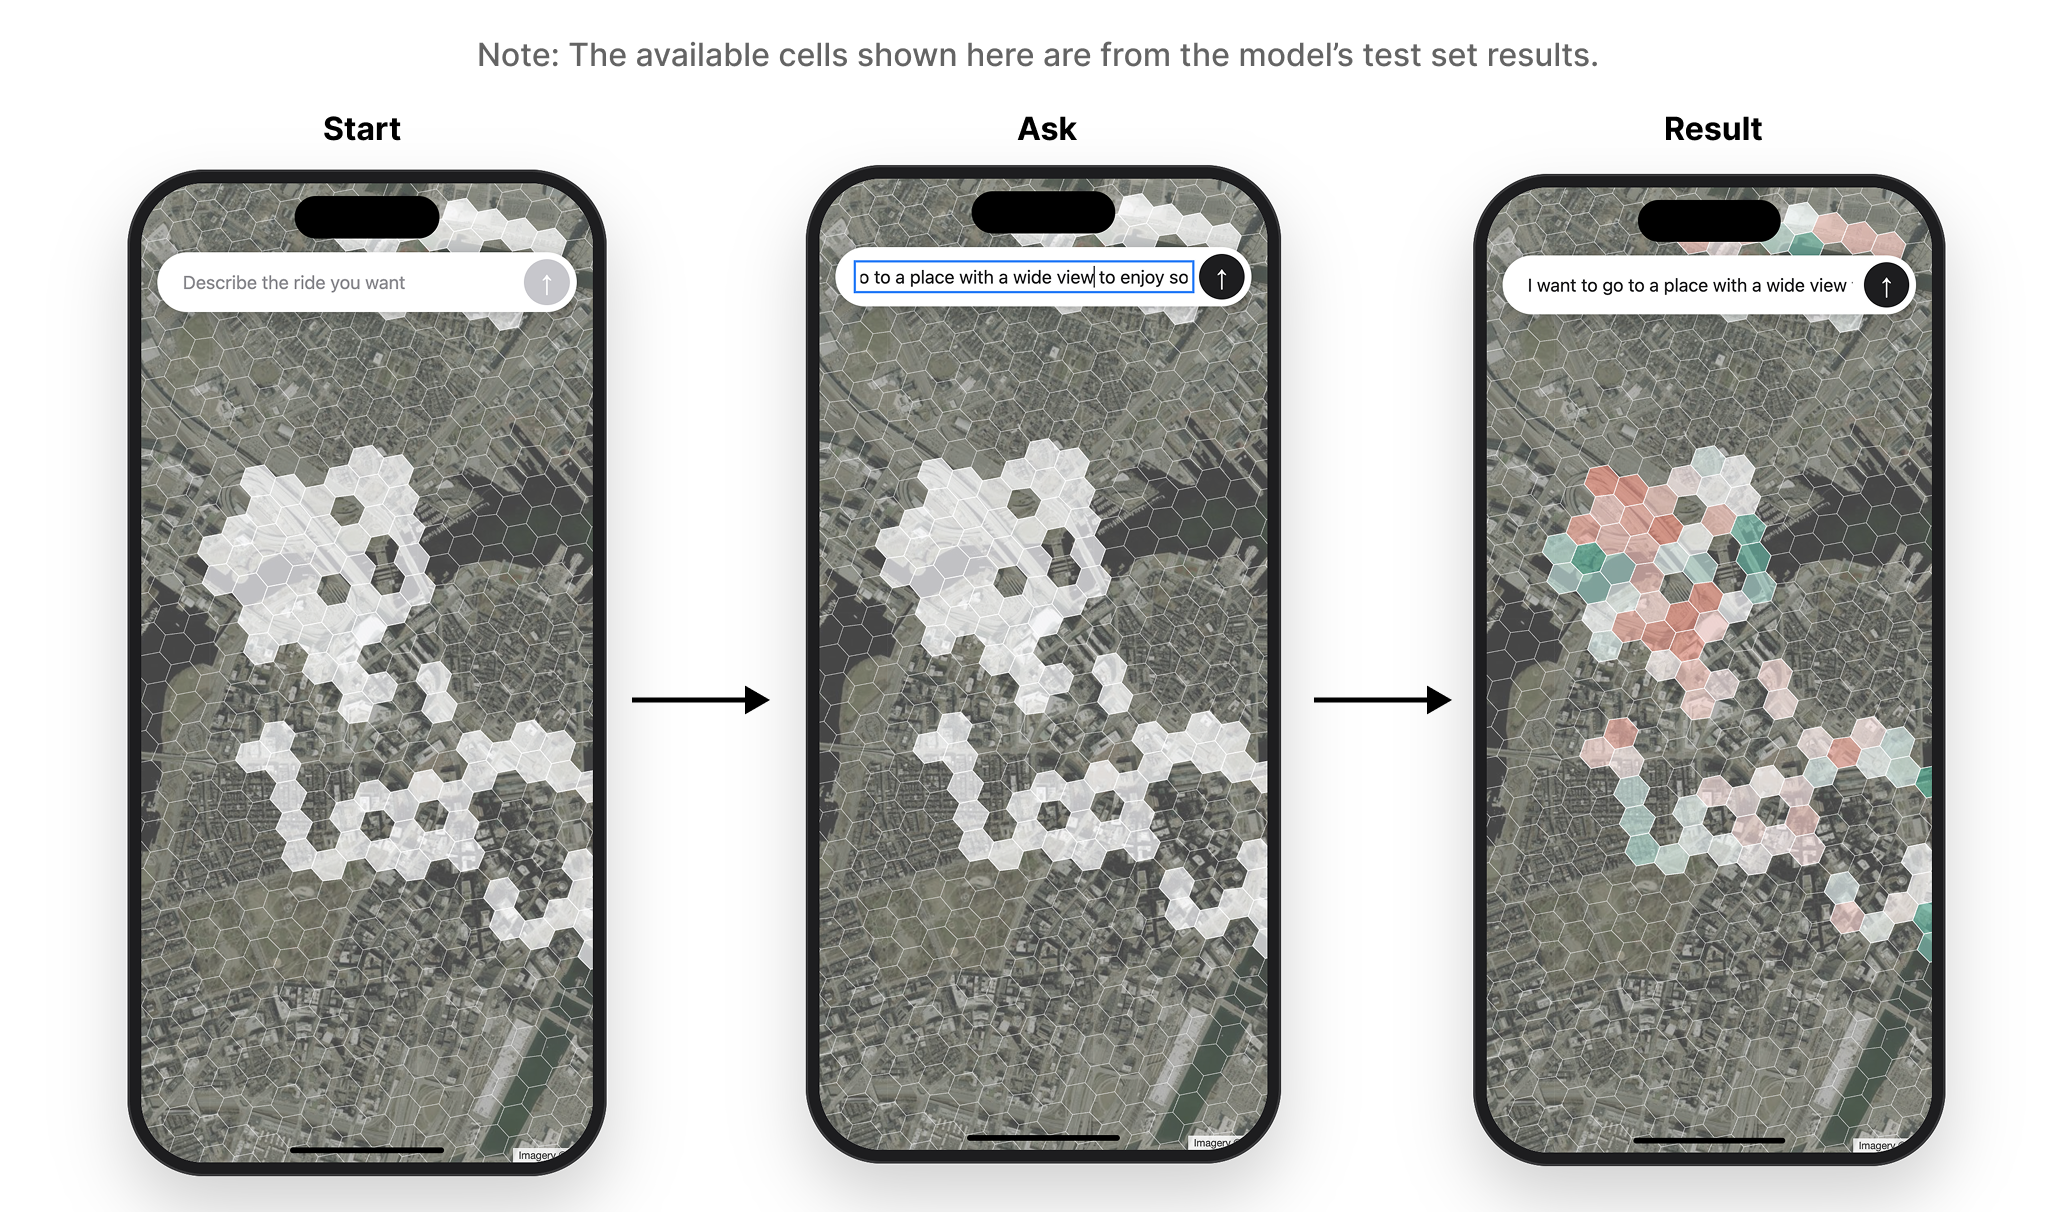
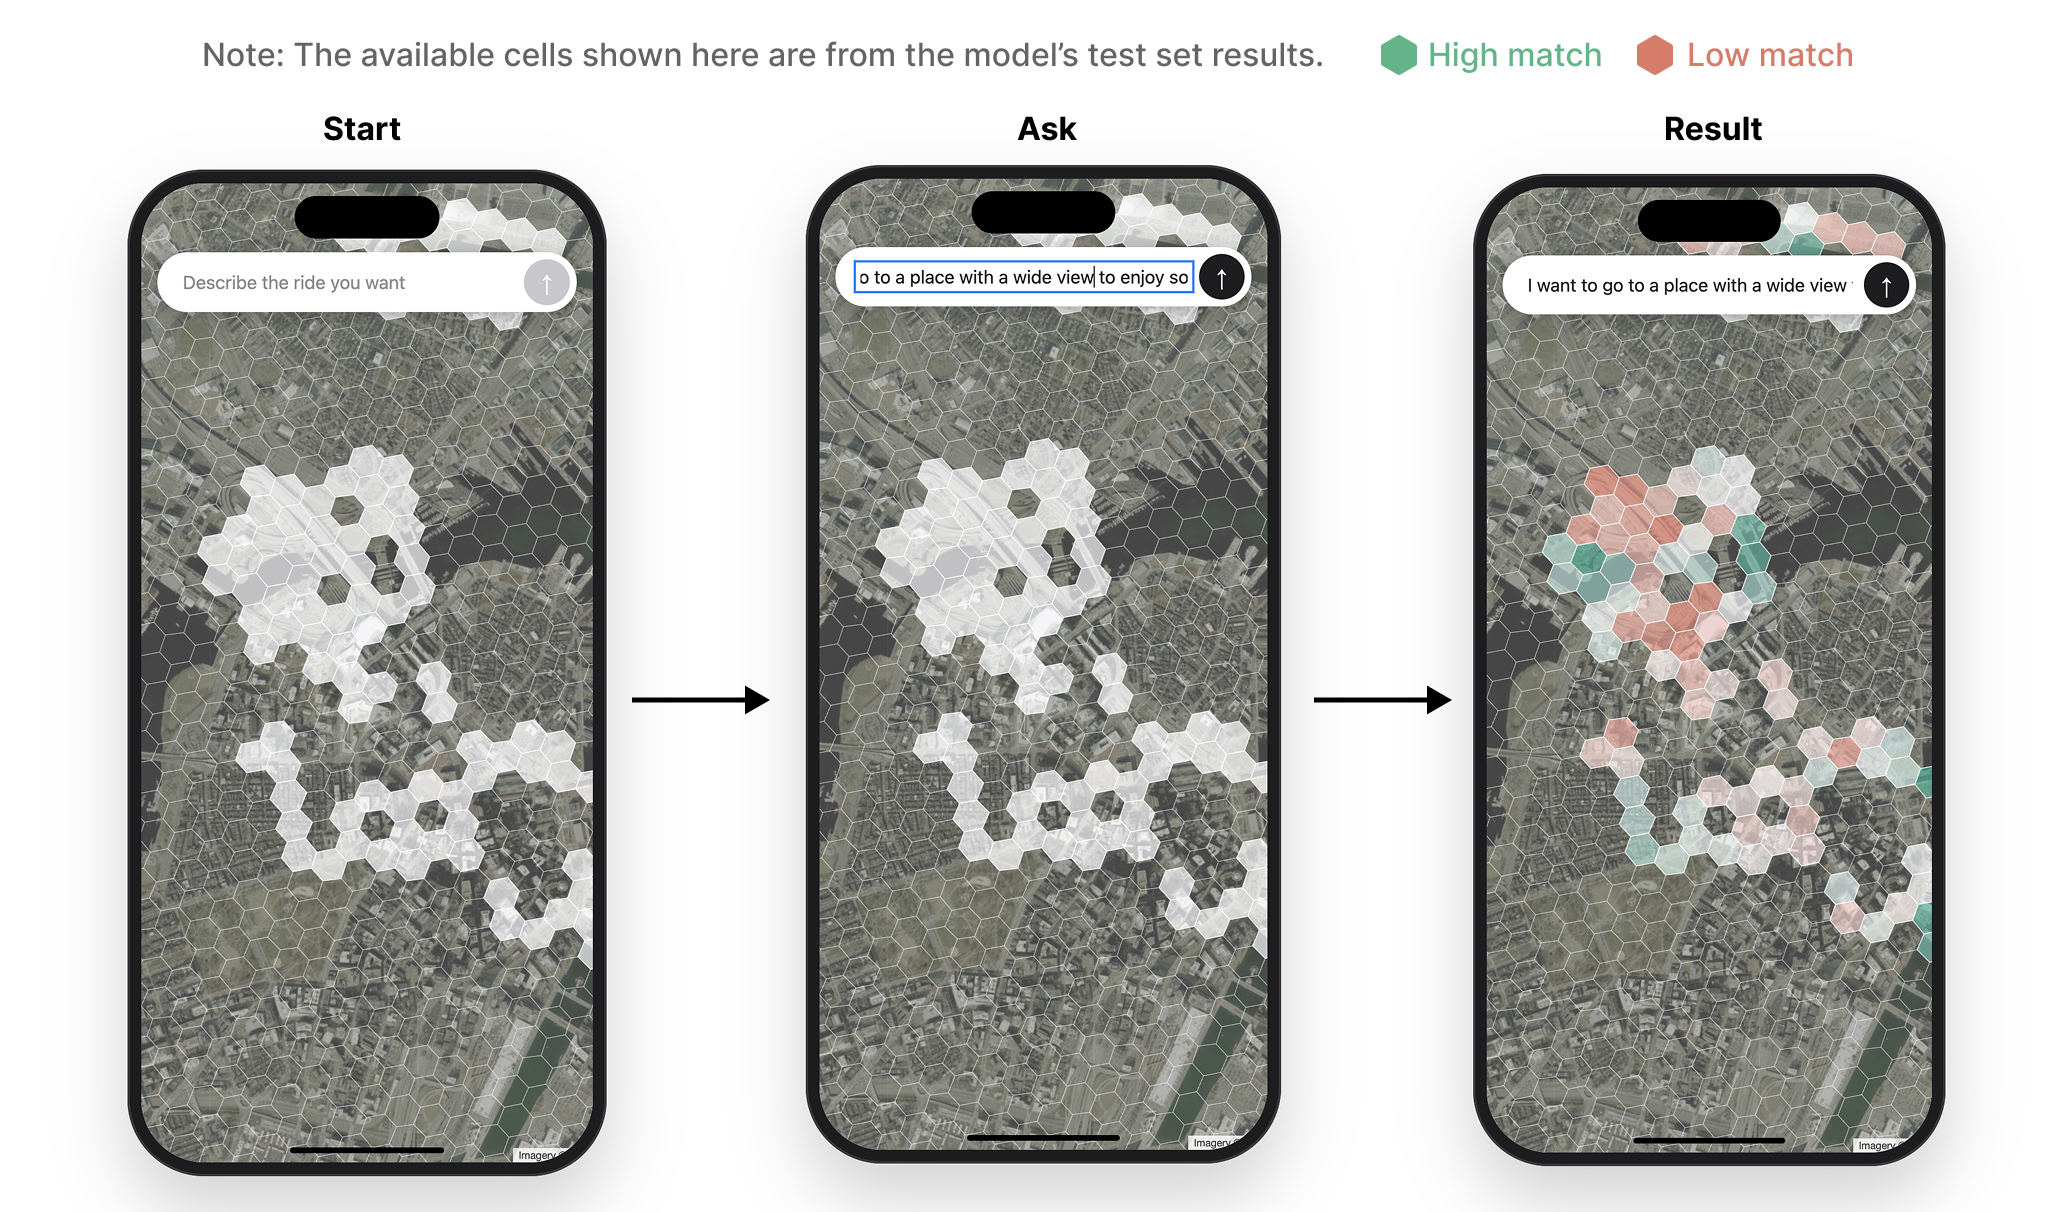
Simplify result explanations and contents, update frontend illustration

Changed region(s): [[0.0933, 0.0305, 0.9023, 0.0611]]

diff --git a/README.md b/README.md
@@ -24,14 +24,7 @@ is the next step. **Milestone 2 track: Vision.**
   - [Run collection through prediction](#run-collection-through-prediction)
   - [Example pipeline outputs](#example-pipeline-outputs)
   - [Model training and results: partial fine-tuning](#model-training-and-results-partial-fine-tuning)
-    - [1. Data and evaluation protocol](#1-data-and-evaluation-protocol)
-    - [2. Model configurations](#2-model-configurations)
-    - [3. Held-out test comparison (54 cells)](#3-held-out-test-comparison-54-cells)
-    - [4. Detailed comparison by target dimension](#4-detailed-comparison-by-target-dimension)
-    - [5. Interpretation and limitations](#5-interpretation-and-limitations)
-    - [6. Reproducibility](#6-reproducibility)
   - [Data and model versions](#data-and-model-versions)
-- [Milestone 2 evidence](#milestone-2-evidence)
 
 ## Repository at a glance
 
@@ -280,17 +273,23 @@ and ESA WorldCover 2021 (CC BY 4.0).
 
 ### Model training and results: partial fine-tuning
 
-**The results below use the ten-target Notebook 08 experiment.** The runnable app and
-five-container workflow still use the existing frozen CLIP + Ridge serving path; these
-fine-tuned checkpoints have not been integrated into that path.
+**Notebook 08 compares models predicting ten scenery scores.** These are research
+results; the app still uses its existing frozen CLIP + Ridge model.
 
-This experiment asks whether partially updating pretrained visual encoders improves prediction of cycling-environment attributes from overhead imagery. It compares frozen and partially fine-tuned models within the **same ten-target dataset (`v1`) and fixed spatial train/validation/test split**. All ten targets are generated from street-view photographs by Gemini; they are **pseudo-labels, not independently validated cyclist ratings**.
+**Question: does fine-tuning help?** We compare keeping pretrained image encoders
+unchanged (frozen) with updating their final layers (partial fine-tuning). All models
+use the same data split and Gemini-generated labels, which have not been human-validated.
 
 #### 1. Data and evaluation protocol
 
-The pipeline produced 1,127 geographic cells, of which 175 received labels; 160 remained after spatial filtering. The fixed dataset has **67 training, 39 validation, and 54 held-out test cells**. The targets are `tree_canopy`, `greenery`, `water_visibility`, `open_landscape`, `urban_density`, `historic_character`, `commercial_activity`, `bike_infrastructure`, `road_environment`, and `scenic_appeal` (each normalized to [0, 1]).
+After filtering, **160 cells** remain: **67 train, 39 validation and 54 test**.
+Ten scores cover trees, greenery, water, openness, urban density, historic character,
+commercial activity, cycling infrastructure, road environment and scenic appeal (0–1).
 
-Models are selected by **validation MAE**, with early stopping based on that metric. The held-out test split is used for final evaluation. We report the **mean across the ten dimensions** of MAE and RMSE (lower is better) and Spearman rank correlation (higher is better). Missing targets are masked in the loss and evaluation. With only 67 training cells, these comparisons are preliminary.
+Validation error selects the model checkpoint; test cells are reserved for evaluation.
+Metrics average the ten targets and ignore missing labels:
+**MAE** is average absolute error, **RMSE** emphasizes large errors (both lower is better),
+and **Spearman** measures agreement in area rankings (higher is better).
 
 #### 2. Model configurations
 
@@ -309,9 +308,11 @@ Models are selected by **validation MAE**, with early stopping based on that met
 | Batch size / maximum epochs | 8 / 25 | 8 / 25 |
 | Early stopping | Patience 6; select minimum validation MAE | Same |
 
-Training also uses CUDA mixed precision where available and gradient clipping (`max_norm=1.0`). The completed Google Drive notebook records `DRY_RUN=False`; its outputs show 25 ResNet50 epochs and 15 DINOv2 epochs (the latter stopped early). The saved checkpoints are reloaded for evaluation.
+ResNet50 ran for 25 epochs; DINOv2 stopped early after 15. Saved checkpoints were
+reloaded for evaluation. Training uses mixed precision when available and gradient clipping.
 
-**Important comparison caveat:** Notebook 07's *frozen* models use a **Ridge regression probe on cached encoder embeddings**, whereas Notebook 08's partially fine-tuned models use a **new neural regression head**. The performance differences cannot be attributed exclusively to unfreezing the encoder.
+**Comparison limit:** frozen models use Ridge; fine-tuned models use a new neural head.
+Because both the encoder and head change, differences are not due only to fine-tuning.
 
 #### 3. Held-out test comparison (54 cells)
 
@@ -328,7 +329,7 @@ Training also uses CUDA mixed precision where available and gradient clipping (`
 
 ![Overall model comparison: MAE, RMSE, and Spearman](docs/experiments/finetuning/Figures/model_comparison.png)
 
-*Figure 1. Overall model comparison. Connected points compare frozen and partially fine-tuned versions of ResNet50 and DINOv2. CLIP has the lowest RMSE among image-only models, while OSM + LightGBM has the highest Spearman overall.*
+*Figure 1. Connected points show before/after fine-tuning; leftward is better for error, rightward for ranking.*
 
 ##### Frozen vs partial fine-tuning: direct comparison
 
@@ -337,44 +338,51 @@ Training also uses CUDA mixed precision where available and gradient clipping (`
 | ResNet50 | 0.132 | 0.174 | **+0.042** | 0.170 | 0.209 | **+0.039** | 0.403 | 0.215 | **−0.188** |
 | DINOv2-S | 0.132 | 0.125 | **−0.007** | 0.164 | 0.161 | **−0.003** | 0.468 | 0.441 | **−0.027** |
 
-DINOv2-S partial FT slightly reduces absolute prediction error, but does not improve ranking agreement. ResNet50 partial FT is worse than its frozen Ridge baseline on all three metrics. These are **descriptive test-set differences**, not claims of statistical significance.
+DINOv2 reduces error but worsens ranking. ResNet50 worsens on all three metrics.
+These observed differences are not claims of statistical significance.
 
 ![Frozen vs partial fine-tuning on the held-out test set](docs/experiments/finetuning/Figures/heldout_test_set.png)
 
-*Figure 2. Focused comparison of ResNet50 and DINOv2-S before and after fine-tuning across all three metrics.*
+*Figure 2. Each encoder before and after fine-tuning.*
 
 #### 4. Detailed comparison by target dimension
 
-Aggregate results can hide differences across the ten target attributes. The following figures compare the same four image-only configurations at the **per-dimension** level. The underlying results were calculated by the notebook from the saved test predictions and Notebook 07's `per_dimension_metrics.csv`.
+The next two figures show which individual targets improve or worsen, rather than
+only reporting an overall average.
 
 ##### Change in MAE
 
 ![Per-dimension change in MAE after fine-tuning](docs/experiments/finetuning/Figures/Finetuning_effect.png)
 
-*Figure 3. Change in MAE (partial FT minus frozen) for each target. Negative values indicate lower prediction error after fine-tuning; positive values indicate deterioration.*
+*Figure 3. Error change after fine-tuning: negative = improved, positive = worse.*
 
 ##### Ranking agreement
 
 ![Per-dimension Spearman ranking agreement](docs/experiments/finetuning/Figures/Ranking_agreement.png)
 
-*Figure 4. Per-dimension Spearman correlation for frozen and partially fine-tuned ResNet50 and DINOv2-S. Higher values indicate closer agreement with the Gemini-generated label ranking.*
+*Figure 4. Ranking agreement for each target; higher is better.*
 
-The notebook also exports `ft_per_dimension_comparison.csv` (ten dimensions × four models, with MAE, RMSE, Spearman, and sample counts) and `ft_four_model_summary.csv`. These provide exact numeric values behind Figures 2–4 without crowding this page with a 40-row table.
+Detailed CSV output names are listed in the [full report](docs/experiments/finetuning/FINETUNING.md).
 
 #### 5. Interpretation and limitations
 
-- **DINOv2-S**: Partial fine-tuning gives the lowest overall MAE (0.125) among the compared models, but its Spearman decreases from 0.468 to 0.441.
-- **ResNet50**: Partial fine-tuning increases MAE from 0.132 to 0.174 and reduces Spearman from 0.403 to 0.215. Notably, the configured `layer4` fine-tuning still makes **63.7% of this implementation's parameters trainable**.
-- **Frozen CLIP**: Remains competitive without encoder updates (MAE 0.126, RMSE 0.158, Spearman 0.519).
-- **OSM baseline**: OSM + LightGBM gives the highest Spearman (0.553), suggesting map-derived features are a strong comparator for route ranking.
+- **DINOv2-S:** lowest MAE (0.125), but ranking agreement decreases.
+- **ResNet50:** fine-tuning performs worse than its frozen baseline.
+- **Frozen CLIP:** lowest RMSE (0.158), without updating the encoder.
+- **OSM + LightGBM:** best ranking agreement (Spearman 0.553).
 
-The main limitations are the small number of labeled training cells, pseudo-label uncertainty, the overhead-vs-street-view domain gap, and differences between Ridge and neural regression heads. The next step is to **label more collected street-view images and expand the geographic coverage beyond Boston**, then rerun all models with a consistent spatial split. A frozen-encoder + neural-head control would better isolate the effect of unfreezing pretrained layers.
+Only 67 training cells and unverified teacher labels limit these findings. Aerial images
+also cannot capture everything visible from the street. Next: human-check labels, expand
+data beyond Boston, and compare frozen/fine-tuned encoders with the same head design.
 
 #### 6. Reproducibility
 
-Run `05_build_dataset.ipynb` → `06_embeddings.ipynb` → `07_baselines.ipynb` → [**`08_finetuning.ipynb`**](docs/experiments/finetuning/08_finetuning.ipynb). Notebook 08 is designed for Google Colab with a T4 GPU and reads data from the configured Google Drive project directory. It saves checkpoints, `training_history.csv`, `validation_per_dimension.csv`, `test_per_dimension_finetuning.csv`, `test_model_comparison_with_finetuning.csv`, `config.json`, and plots under `data/results/finetuning-*/`.
+Run notebooks 05 → 06 → 07 → [08](docs/experiments/finetuning/08_finetuning.ipynb) with
+the matching ten-target data. Notebook 08 uses Google Colab/T4 and Google Drive, saving
+checkpoints, metrics, settings and plots under `data/results/finetuning-*/`.
 
-**Files:** The [standalone report](docs/experiments/finetuning/FINETUNING.md), Notebook 08 and all four original figures are stored together in `docs/experiments/finetuning/`. Configure preceding notebooks for this ten-target dataset; the app's bundled inputs are not interchangeable. Referenced raw CSVs/checkpoints are notebook outputs and were not included in the supplied package.
+[Full report and settings](docs/experiments/finetuning/FINETUNING.md). Notebook and figures
+are included; raw CSVs/checkpoints are not. This dataset is separate from the app's bundled data.
 
 ### Data and model versions
 
